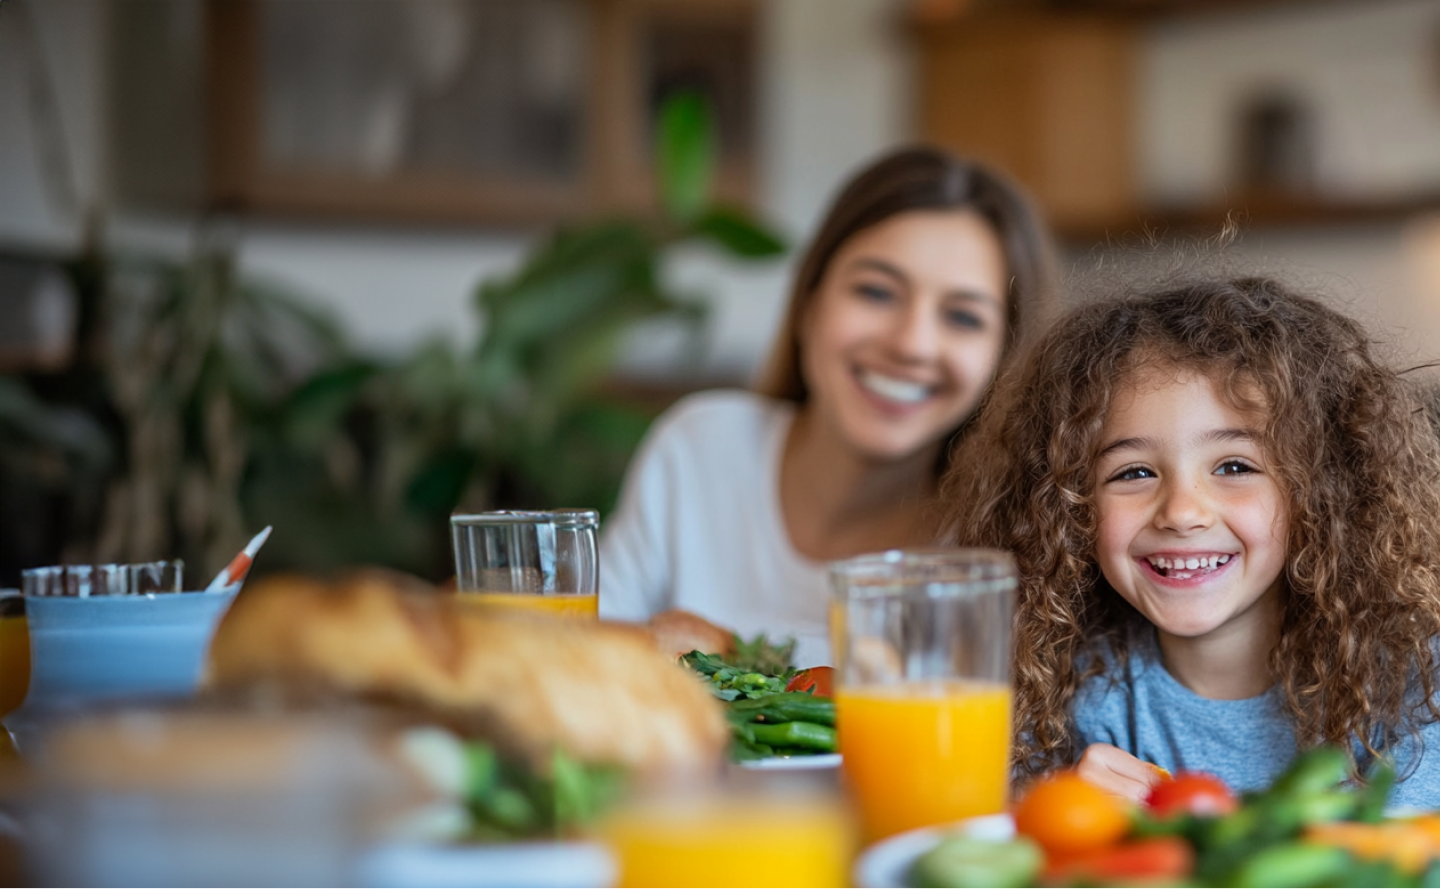
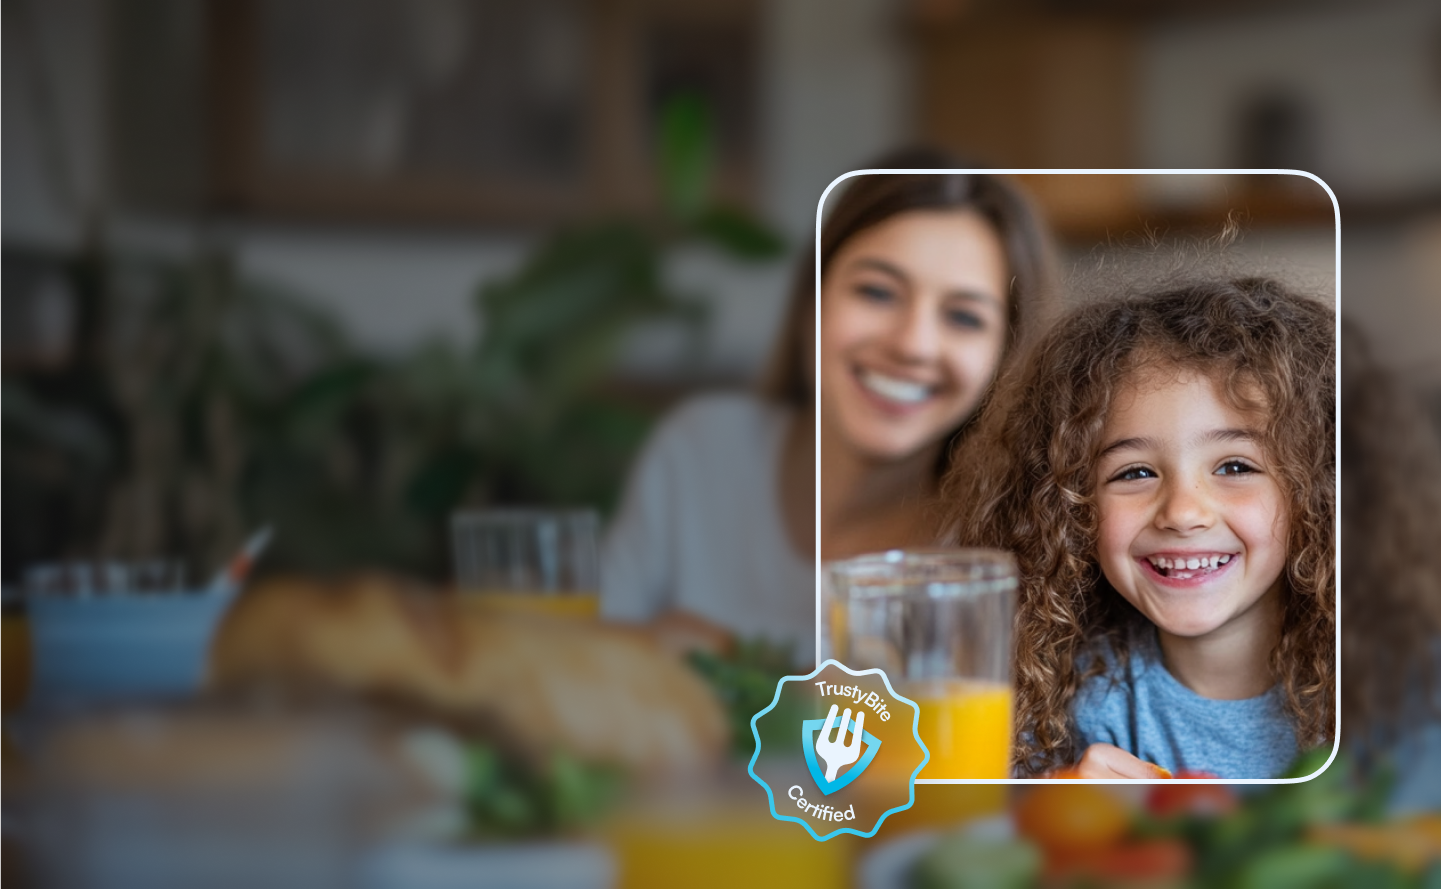
working on cards

diff --git a/frontend/src/app/components/LandingPage.jsx b/frontend/src/app/components/LandingPage.jsx
@@ -1,82 +1,89 @@
 import React from "react";
+import HeroSection from "./HeroSection";
 import { SatoshiFont } from "../fonts/SatoshiFont";
-import Header from "./Header";
 import Image from "next/image";
-import Faces from "@/app/assets/Happy-family-faces.png";
-import Logocertified from "@/app/assets/logo-certified-2.png";
-import { ArrowTurnDownRightIcon } from "@heroicons/react/24/outline";
-import happyfamily from "@/app/assets/Happy-family.png";
+import dining from "@/app/assets/dining.png";
+import freshness from "@/app/assets/freshness.svg";
 
 export default function LandingPage() {
   return (
-    <div className="w-full">
-      <Image
-        className="bg-no-repeat 2xl:max-w-[1536px] w-full bg-contain absolute -z-10"
-        src={happyfamily}
-        width={0}
-        height={0}
-        alt="happy"
-      />
-      <div className="w-full 2xl:max-w-[1536px]">
-        <Header />
-        <div className=" flex justify-between mx-8 mt-20">
-          <div>
-            <p
-              className={`${SatoshiFont.className} mt-10 leading-[100%] font-bold text-[5rem] text-white`}
-            >
-              Trusty Bite:
-              <br />
-              Where{" "}
-              <span className="text-[#6BE1FF]">
-                Freshness
-                <br /> MeetsHygiene.
-              </span>
-            </p>
-            <p
-              className={`${SatoshiFont.className} mt-10 leading-[130%] text-white font-[400] text-[2rem]`}
-            >
-              Find and book clean, safe restaurant <br /> swith real-time
-              freshness and hygiene scores.
-            </p>
-            <div className="mt-10">
-              <button
-                className={`w-48 h-16 text-2xl text-[#4C4C4C] ${SatoshiFont.className} font-bold flex items-center gap-2 bg-[#6BE1FF] py-1 pl-1 pr-2 rounded-2xl shadow-inner`}
-                style={{
-                  boxShadow:
-                    "inset 0 0px 2px white, inset 0 0px 0px white, inset 0 -1px 1.5px #003542, inset 0 0px 0px white",
-                }}
-              >
-                <span
-                  className="bg-white flex justify-center items-center w-14 h-14 p-1 rounded-xl"
-                  style={{
-                    boxShadow:
-                      "inset 0 0.3px 2px white, inset 0 0px 0px white, inset 0 -1px 1.5px #003542, inset 0 0px 0px white",
-                  }}
-                >
-                  <ArrowTurnDownRightIcon className="w-10" color="#4C4C4C" />
-                </span>
-                Book Now
-              </button>
+    <>
+      <HeroSection />
+      <div className="mx-[6.5%]">
+        <div className="flex justify-center">
+          <p
+            className={`${SatoshiFont.className} my-[3vw] leading-[110%] font-bold text-center text-[5vw] text-black`}
+          >
+            Are You Really{" "}
+            <span className="text-[#01B7E6]">
+              Dining
+              <br /> Safely?
+            </span>
+          </p>
+        </div>
+        <Image
+          className="w-full drop-shadow-2xl"
+          src={dining}
+          width={0}
+          height={0}
+          alt="dining"
+        />
+        <div className="mt-[3vw] grid grid-cols-2">
+          <p className={`${SatoshiFont.className}  font-bold text-black text-[3vw]`}>
+            How <span className="text-[#01B7E6]">TrustyBite</span><br/> Solves It:
+          </p>
+          <div id="cards" className="">
+            <div className="p-3 my-2 z-[1] bg-gradient-to-b drop-shadow-2xl from-white to-[#DCEEFF] rounded-2xl">
+              <div className="flex items-center gap-10">
+                <Image src={freshness} width={0} height={0}/>
+                <p className={`${SatoshiFont.className} text-black font-bold text-4xl`}>Freshness Monitoring</p>
+              </div>
+              <div>
+                Lorem ipsum dolor sit amet consectetur adipisicing elit.
+                Obcaecati exercitationem ut delectus accusantium voluptates
+                nesciunt molestiae expedita! Fuga, placeat incidunt corrupti hic
+                cupiditate mollitia a magni laborum sed nihil dignissimos?
+              </div>
             </div>
-          </div>
-          <div className="relative">
-            <Image
-              className="border-4 border-white rounded-[3rem]"
-              src={Faces}
-              width={0}
-              height={0}
-              alt="faces"
-            />
-            <Image
-              className="absolute w-[182px] h-[182px] bottom-2 -left-16"
-              src={Logocertified}
-              width={0}
-              height={0}
-              alt="logo-certified"
-            />
+            <div className="p-3 my-2 z-[2] bg-gradient-to-b drop-shadow-2xl from-white to-[#DCEEFF] rounded-2xl">
+              <div className="flex items-center gap-10">
+                <Image src={freshness} width={0} height={0}/>
+                <p className={`${SatoshiFont.className} text-black font-bold text-4xl`}>Freshness Monitoring</p>
+              </div>
+              <div>
+                Lorem ipsum dolor sit amet consectetur adipisicing elit.
+                Obcaecati exercitationem ut delectus accusantium voluptates
+                nesciunt molestiae expedita! Fuga, placeat incidunt corrupti hic
+                cupiditate mollitia a magni laborum sed nihil dignissimos?
+              </div>
+            </div>
+            <div className="p-3 top-0 z-[2] bg-gradient-to-b drop-shadow-2xl from-white to-[#DCEEFF] rounded-2xl">
+              <div className="flex items-center gap-10">
+                <Image src={freshness} width={0} height={0}/>
+                <p className={`${SatoshiFont.className} text-black font-bold text-4xl`}>Freshness Monitoring</p>
+              </div>
+              <div>
+                Lorem ipsum dolor sit amet consectetur adipisicing elit.
+                Obcaecati exercitationem ut delectus accusantium voluptates
+                nesciunt molestiae expedita! Fuga, placeat incidunt corrupti hic
+                cupiditate mollitia a magni laborum sed nihil dignissimos?
+              </div>
+            </div>
+            <div className="p-3 my-2 z-[2] bg-gradient-to-b drop-shadow-2xl from-white to-[#DCEEFF] rounded-2xl">
+              <div className="flex items-center gap-10">
+                <Image src={freshness} width={0} height={0}/>
+                <p className={`${SatoshiFont.className} text-black font-bold text-4xl`}>Freshness Monitoring</p>
+              </div>
+              <div>
+                Lorem ipsum dolor sit amet consectetur adipisicing elit.
+                Obcaecati exercitationem ut delectus accusantium voluptates
+                nesciunt molestiae expedita! Fuga, placeat incidunt corrupti hic
+                cupiditate mollitia a magni laborum sed nihil dignissimos?
+              </div>
+            </div>
           </div>
         </div>
       </div>
-    </div>
+    </>
   );
 }

diff --git a/frontend/src/app/components/HeroSection.jsx b/frontend/src/app/components/HeroSection.jsx
@@ -1,0 +1,64 @@
+import React from 'react'
+import { SatoshiFont } from "../fonts/SatoshiFont";
+import Header from "./Header";
+import Image from "next/image";
+import { ArrowTurnDownRightIcon } from "@heroicons/react/24/outline";
+import happyfamily1 from "@/app/assets/Happy-family-faces-1.png";
+
+export default function HeroSection() {
+  return (
+    <div className="w-full">
+        <Image
+          className="bg-no-repeat w-full bg-contain -z-10"
+          src={happyfamily1}
+          width={0}
+          height={0}
+          alt="happy"
+        />
+        <div className="w-full absolute top-0 ">
+          <Header />
+          <div className=" flex justify-between ml-[6.5%] mt-[9%]">
+            <div>
+              <p
+                className={`${SatoshiFont.className} leading-[100%] font-bold text-[5.5vw] text-white`}
+              >
+                Trusty Bite:
+                <br />
+                Where{" "}
+                <span className="text-[#6BE1FF]">
+                  Freshness
+                  <br /> Meets Hygiene.
+                </span>
+              </p>
+              <p
+                className={`${SatoshiFont.className} mt-[6%] leading-[130%] text-white font-[400] text-[2vw]`}
+              >
+                Find and book clean, safe restaurant <br /> swith real-time
+                freshness and hygiene scores.
+              </p>
+              <div className="mt-[6%]">
+                <button
+                  className={`w-[13vw] h-[4vw] text-[1.5vw] p-[0.3vw] text-[#4C4C4C] ${SatoshiFont.className} font-bold flex items-center gap-2 bg-[#6BE1FF] rounded-[1vw] shadow-inner`}
+                  style={{
+                    boxShadow:
+                      "inset 0 0px 2px white, inset 0 0px 0px white, inset 0 -1px 1.5px #003542, inset 0 0px 0px white",
+                  }}
+                >
+                  <span
+                    className="bg-white flex justify-center items-center w-[3.5vw] h-[3.5vw] p-1 rounded-[1vw]"
+                    style={{
+                      boxShadow:
+                        "inset 0 0.3px 2px white, inset 0 0px 0px white, inset 0 -1px 1.5px #003542, inset 0 0px 0px white",
+                    }}
+                  >
+                    <ArrowTurnDownRightIcon className="w-[3vw]" color="#4C4C4C" />
+                  </span>
+                  Book Now
+                </button>
+              </div>
+            </div>
+          </div>
+        </div>
+      </div>
+  )
+}

diff --git a/frontend/src/app/components/Header.jsx b/frontend/src/app/components/Header.jsx
@@ -5,40 +5,33 @@ import { SatoshiFont } from "../fonts/SatoshiFont";
 import { ArrowTurnDownRightIcon } from "@heroicons/react/24/outline";
 
 export default function Header() {
-  const header = ["About Us", "EMSculpt NEO", "EMFace", "EMSella", "Contact"];
   return (
-    <div className="mx-8 flex justify-between items-center">
+    <div className="mx-[6.5%] flex justify-between items-center">
       <div className="m-2 flex items-center">
-        <Image className="w-32" src={Logo} width={0} height={0} alt="Logo" />
+        <Image
+          className="w-[12vw]"
+          src={Logo}
+          width={0}
+          height={0}
+          alt="Logo"
+        />
       </div>
-      {/* <div className="flex">
-        {header.map((val, idx) => {
-          return (
-            <p
-              key={val}
-              className={`${SatoshiFont.className} font-[500] px-5 py-3 text-white text-md`}
-            >
-              {val}
-            </p>
-          );
-        })}
-      </div> */}
-      <div>
+      <div className="">
         <button
-          className={` ${SatoshiFont.className} text-[#4C4C4C] font-bold flex items-center gap-2 bg-[#6BE1FF] py-1 pl-1 pr-2 rounded-xl shadow-inner`}
+          className={`w-[11vw] h-[3.5vw] text-[1.25vw] p-[0.3vw] text-[#4C4C4C] ${SatoshiFont.className} font-bold flex items-center gap-2 bg-[#6BE1FF] rounded-[1vw] shadow-inner`}
           style={{
             boxShadow:
-              "inset 0 0px 2px white, inset 0 0px 0px white, inset 0 -0.5px 1px #003542, inset 0 0px 0px white",
+              "inset 0 0px 2px white, inset 0 0px 0px white, inset 0 -1px 1.5px #003542, inset 0 0px 0px white",
           }}
         >
           <span
-            className="bg-white flex justify-center items-center p-1 rounded-lg"
+            className="bg-white flex justify-center items-center w-[3vw] h-[3vw] p-1 rounded-[1vw]"
             style={{
               boxShadow:
-                "inset 0 0.3px 2px white, inset 0 0px 0px white, inset 0 -0.5px 1px #003542, inset 0 0px 0px white",
+                "inset 0 0.3px 2px white, inset 0 0px 0px white, inset 0 -1px 1.5px #003542, inset 0 0px 0px white",
             }}
           >
-            <ArrowTurnDownRightIcon className="w-6" color="#4C4C4C" />
+            <ArrowTurnDownRightIcon className="w-[2vw]" color="#4C4C4C" />
           </span>
           Book Now
         </button>

diff --git a/frontend/src/app/layout.js b/frontend/src/app/layout.js
@@ -8,7 +8,7 @@ export const metadata = {
 export default function RootLayout({ children }) {
   return (
     <html lang="en">
-      <body className={`antialiased flex `}>{children}</body>
+      <body className={`antialiased h-screen`}>{children}</body>
     </html>
   );
 }
